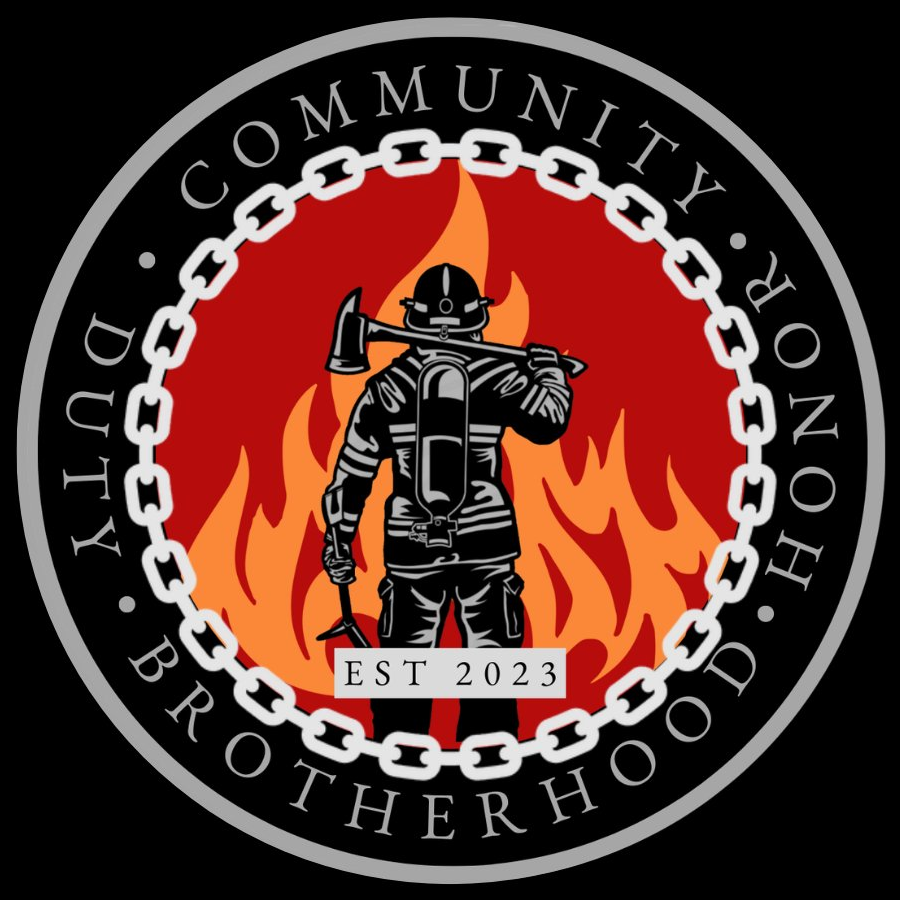
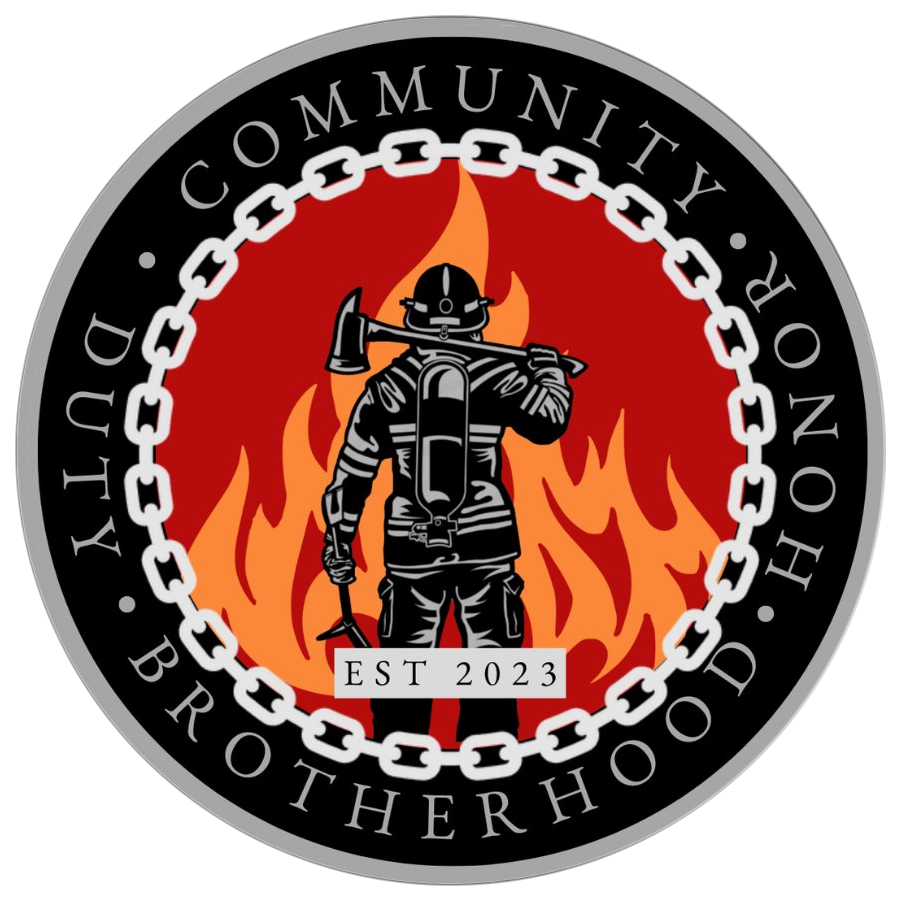
Make seal.png background transparent instead of relying on CSS clip
border-radius + filter:drop-shadow on the img was unreliable across
browsers, leaving a visible black square around the circular badge.
Masked the actual PNG to a transparent circle geometrically instead.

Changed region(s): [[0.0, 0.0, 1.0, 1.0]]

diff --git a/gfa-payment-form.html b/gfa-payment-form.html
@@ -82,8 +82,7 @@
     .page-header-emblem {
       width: 160px;
       height: 160px;
-      object-fit: cover;
-      border-radius: 50%;
+      object-fit: contain;
       margin-bottom: 1.25rem;
       filter: drop-shadow(0 4px 16px rgba(232,58,47,0.3));
     }